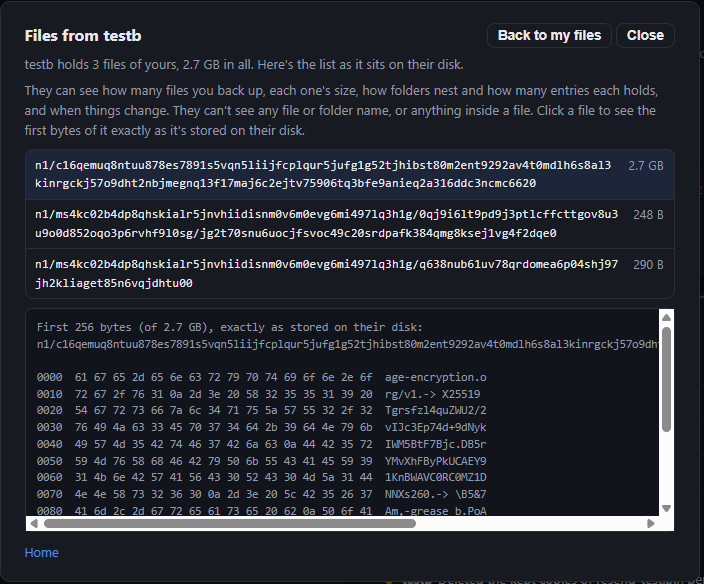
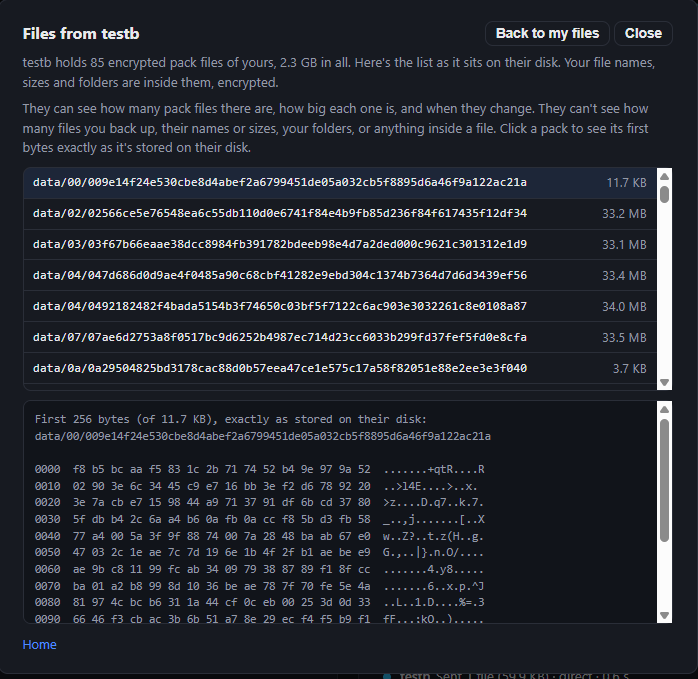
Homepage: "What your buddy sees" screenshot of a chunked backup's packs

Changed region(s): [[0.0301, 0.0308, 0.9628, 0.9555], [0.0, 0.0, 1.0, 1.0]]

diff --git a/apps/web/index.html b/apps/web/index.html
@@ -62,7 +62,7 @@
             <figcaption>Browse a buddy's files and restore a folder, a selection, or everything</figcaption>
           </figure>
           <figure class="carousel-slide">
-            <img src="/assets/screenshots/client-buddy-view.png" alt="What your buddy sees: a list of encrypted file names with their stored sizes, and a hex dump of a stored file starting with an age-encryption header followed by ciphertext" loading="lazy">
+            <img src="/assets/screenshots/client-buddy-view.png" alt="What your buddy sees: a list of 85 encrypted pack files with their sizes, and a hex dump of the first bytes of one, all ciphertext" loading="lazy">
             <figcaption>What your buddy sees: only encrypted data, and the first bytes of any of it exactly as it's stored on their disk</figcaption>
           </figure>
           <figure class="carousel-slide">
